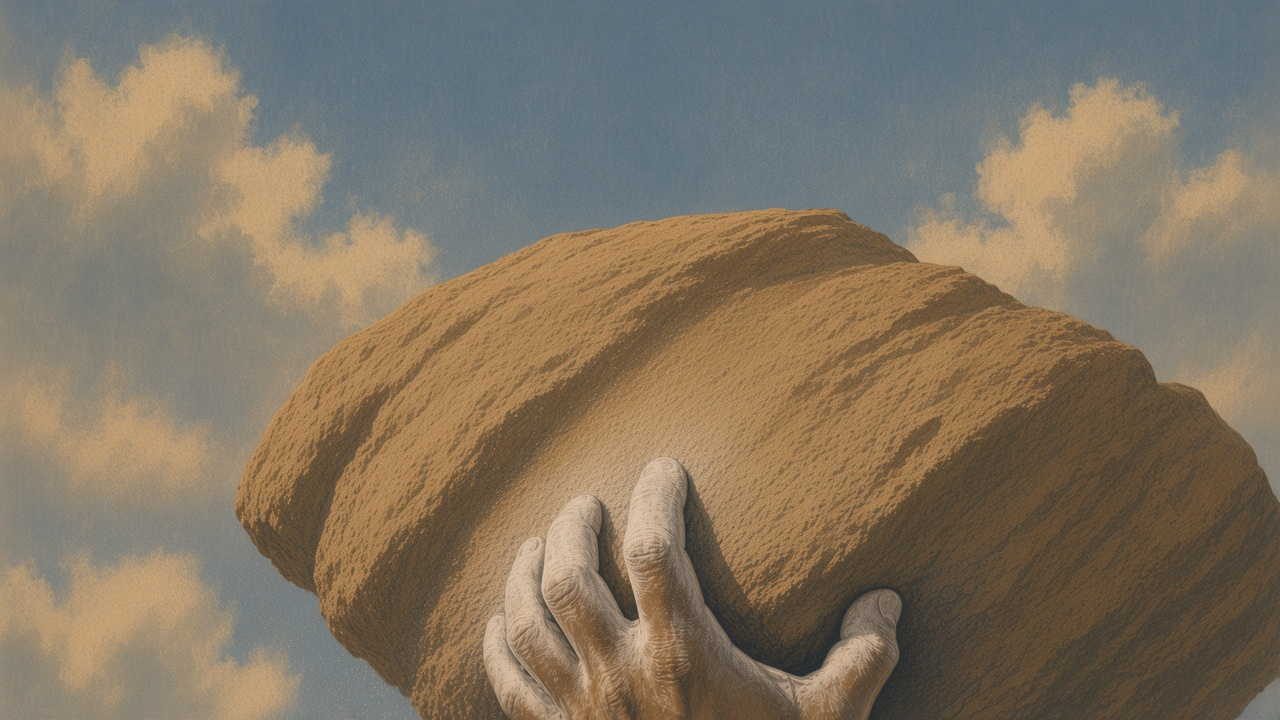
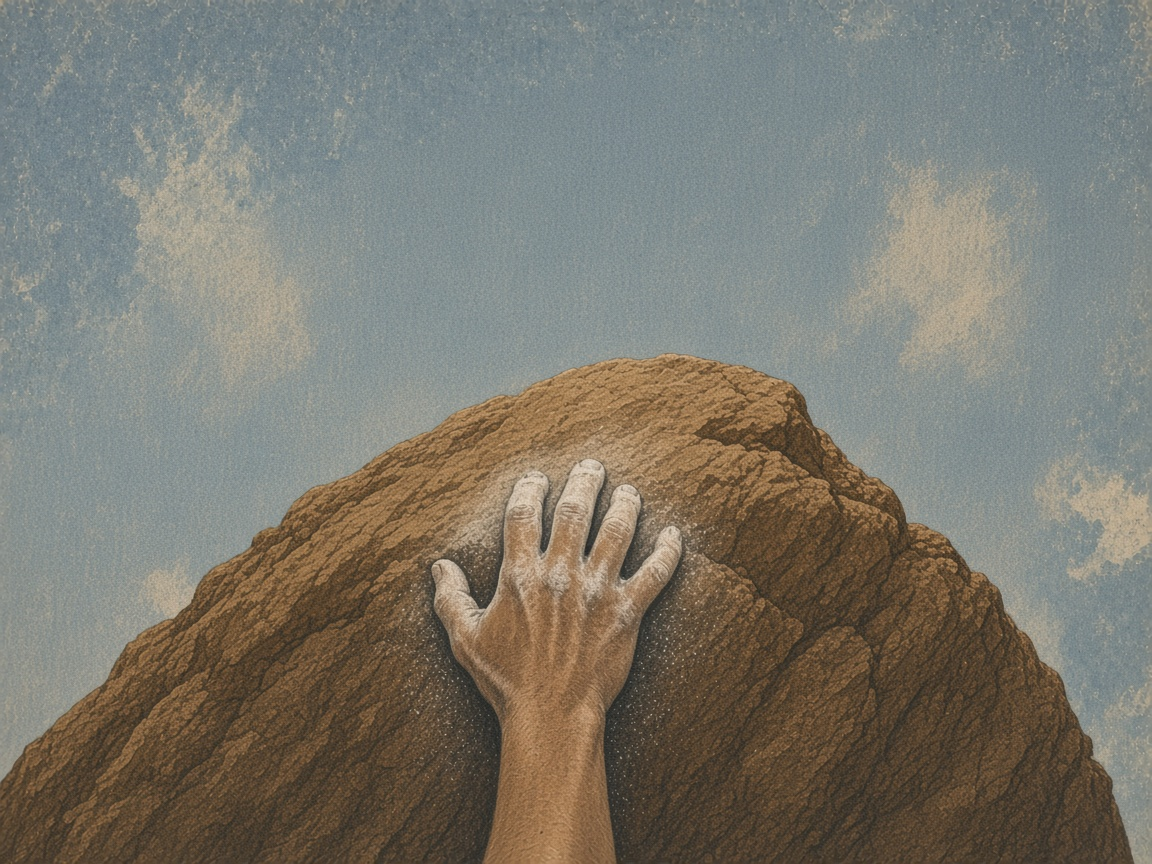
Use the chalked-grip hero on the cover

diff --git a/css/styles.css b/css/styles.css
@@ -171,14 +171,14 @@ a {
   position: relative;
   height: auto;
   min-height: 0;
-  aspect-ratio: 16 / 9;
-  max-height: 72vh;
+  aspect-ratio: 4 / 3;
+  max-height: 78vh;
   margin: 12px auto 48px;
   overflow: hidden;
   border: 3px solid var(--ink);
   background-color: #8ec3da;
   background-image: linear-gradient(180deg, rgba(20, 16, 12, 0.02), rgba(20, 16, 12, 0.18) 70%, rgba(20, 16, 12, 0.32)), url("../images/hero-poster.png");
-  background-position: center 55%;
+  background-position: center 60%;
   background-size: cover;
   background-repeat: no-repeat;
   color: var(--cream);

diff --git a/index.html b/index.html
@@ -15,7 +15,7 @@
       href="https://fonts.googleapis.com/css2?family=Fraunces:ital,opsz,wght@0,9..144,500;0,9..144,700;1,9..144,500&family=Irish+Grover&family=Manrope:wght@400;600;700&display=swap"
       rel="stylesheet"
     />
-    <link rel="stylesheet" href="css/styles.css?v=8" />
+    <link rel="stylesheet" href="css/styles.css?v=10" />
   </head>
   <body>
     <p class="notice-bar">
